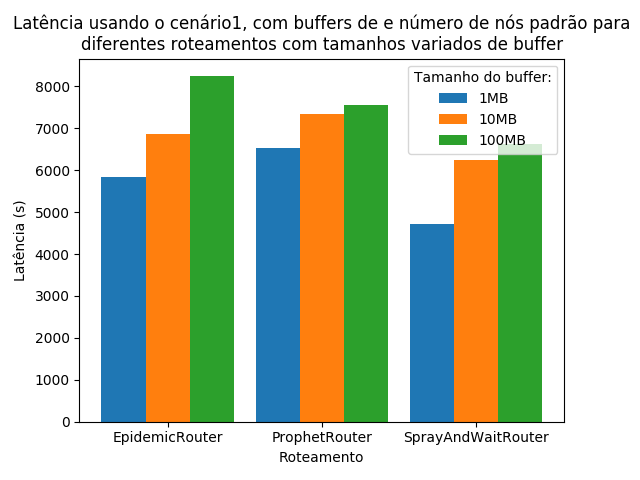
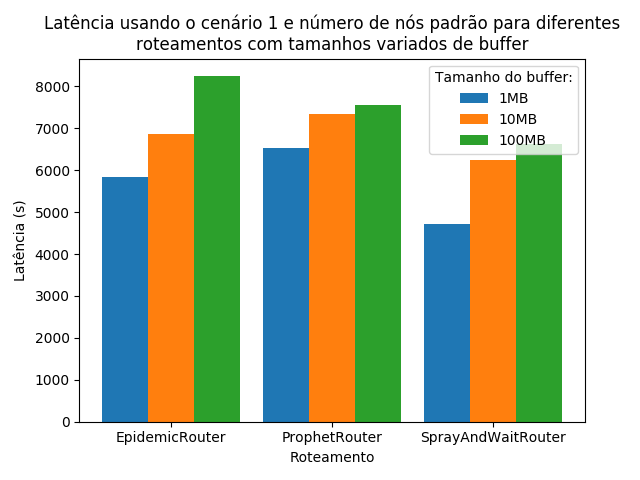
Uploading the fix for real this time, added gitignore

diff --git a/Results/graphs.py b/Results/graphs.py
@@ -23,9 +23,9 @@ def bargraph(what, t, pos, data, unit=None):
 	plt.xticks([p + 1 for p in pos], routers)
 	title = what + " usando o cenário"
 	if (t == 'cars'): 
-		title = title + "1, com buffers de e "
+		title = title + " 1 e "
 	else: 
-		title = title + "2, com buffers de e "
+		title = title + " 2 e "
 	if (n == '50'): 
 		title = title + "metade do número de nós para diferentes roteamentos com tamanhos variados de buffer"
 	else:
